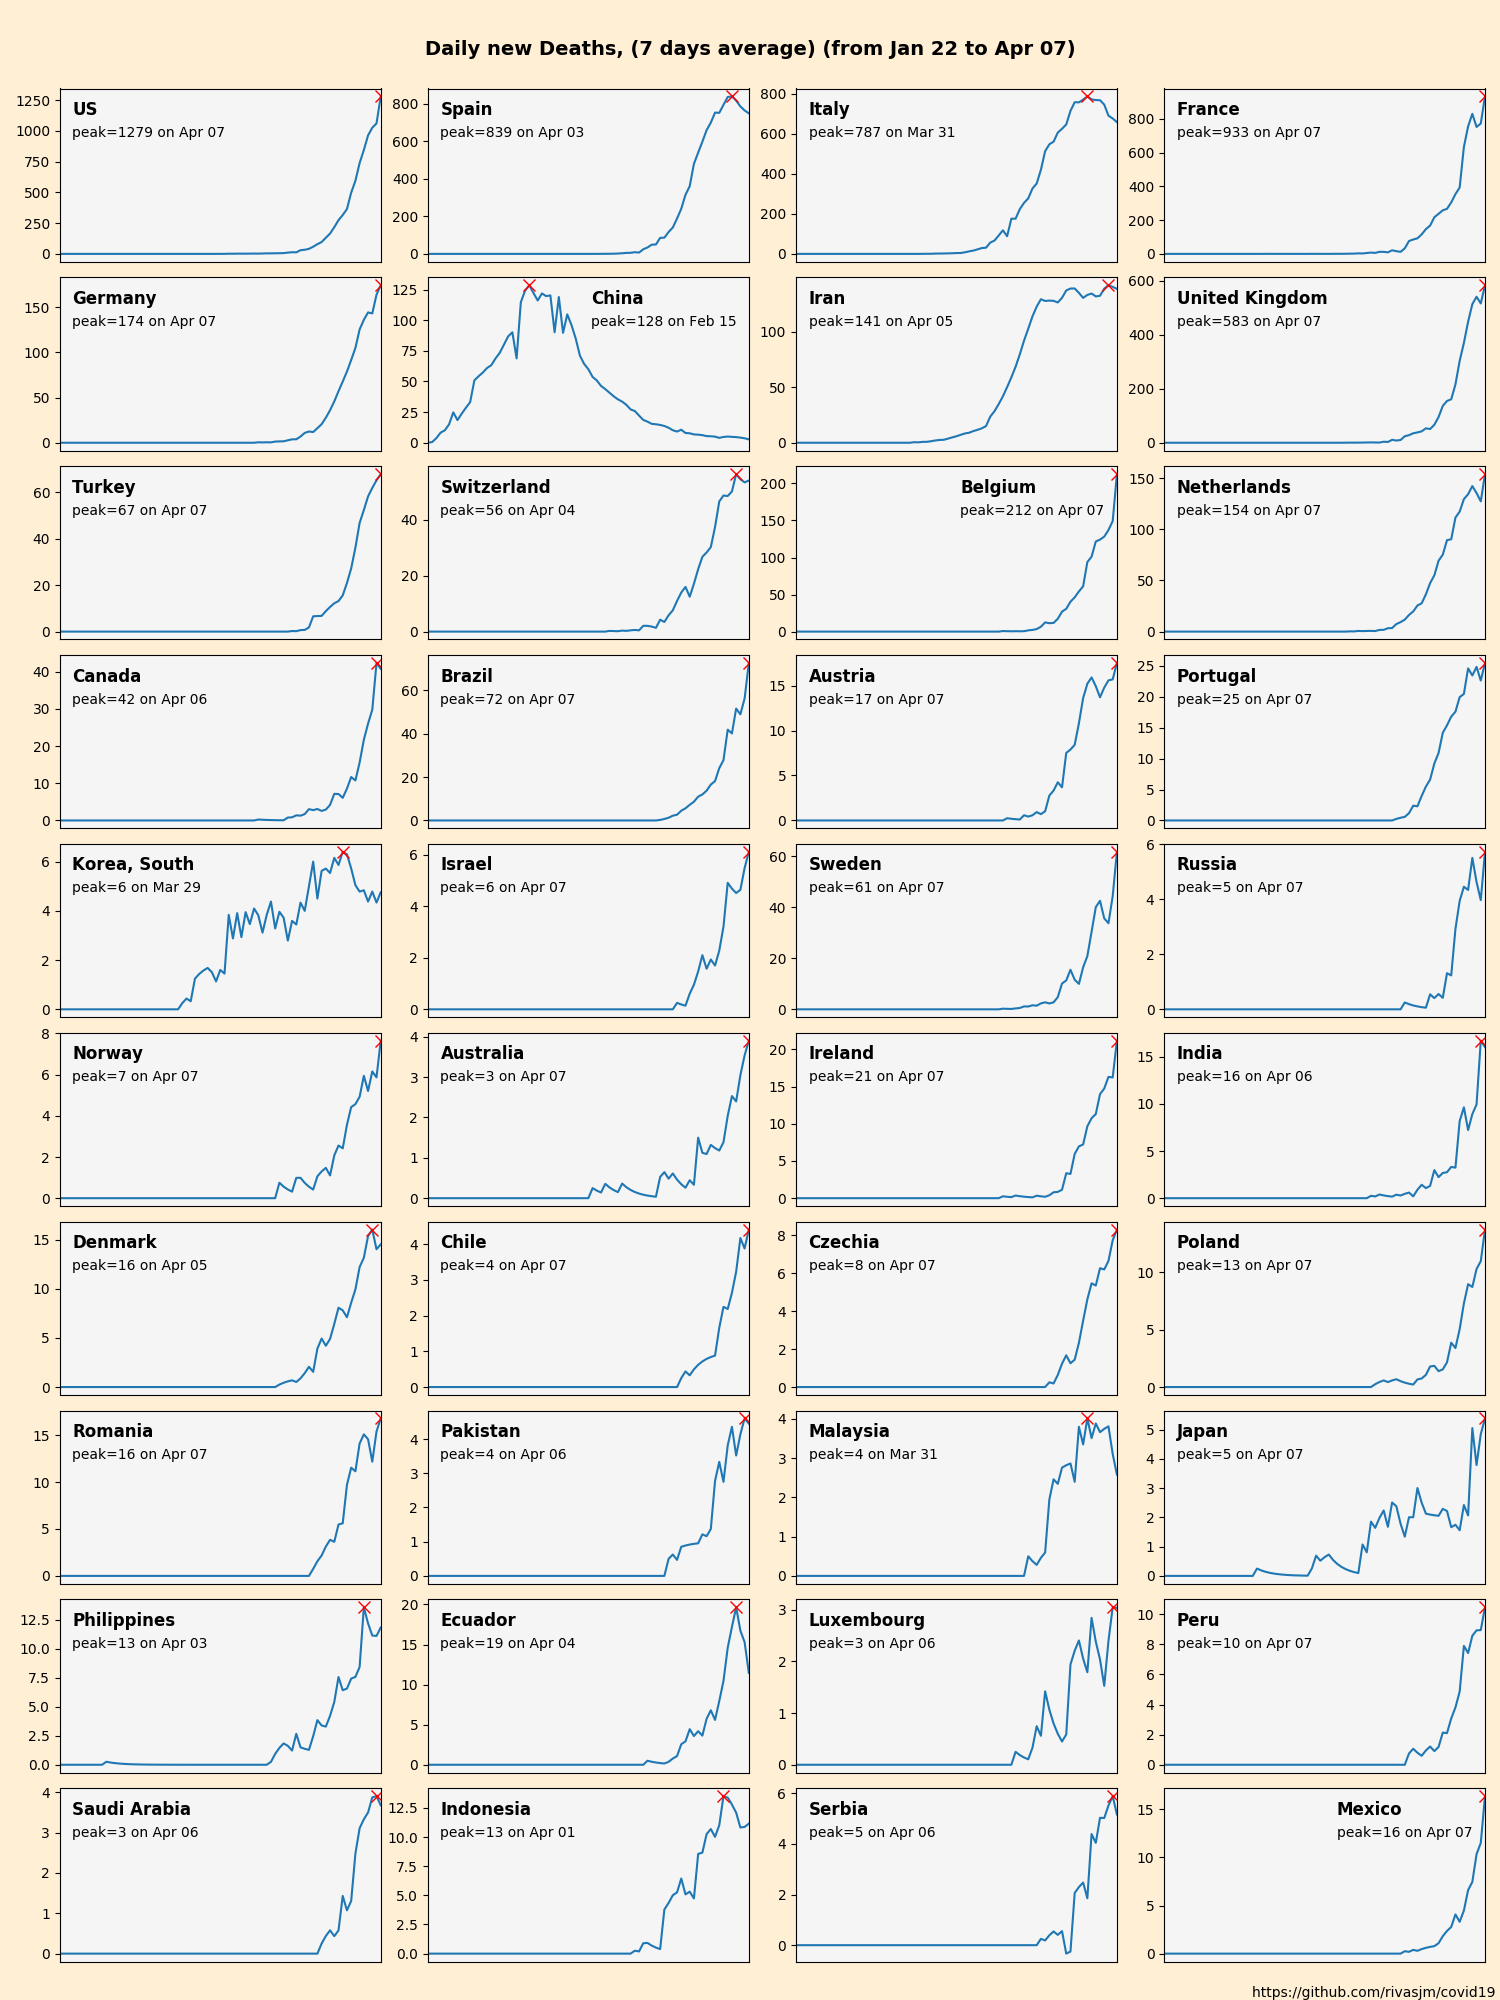
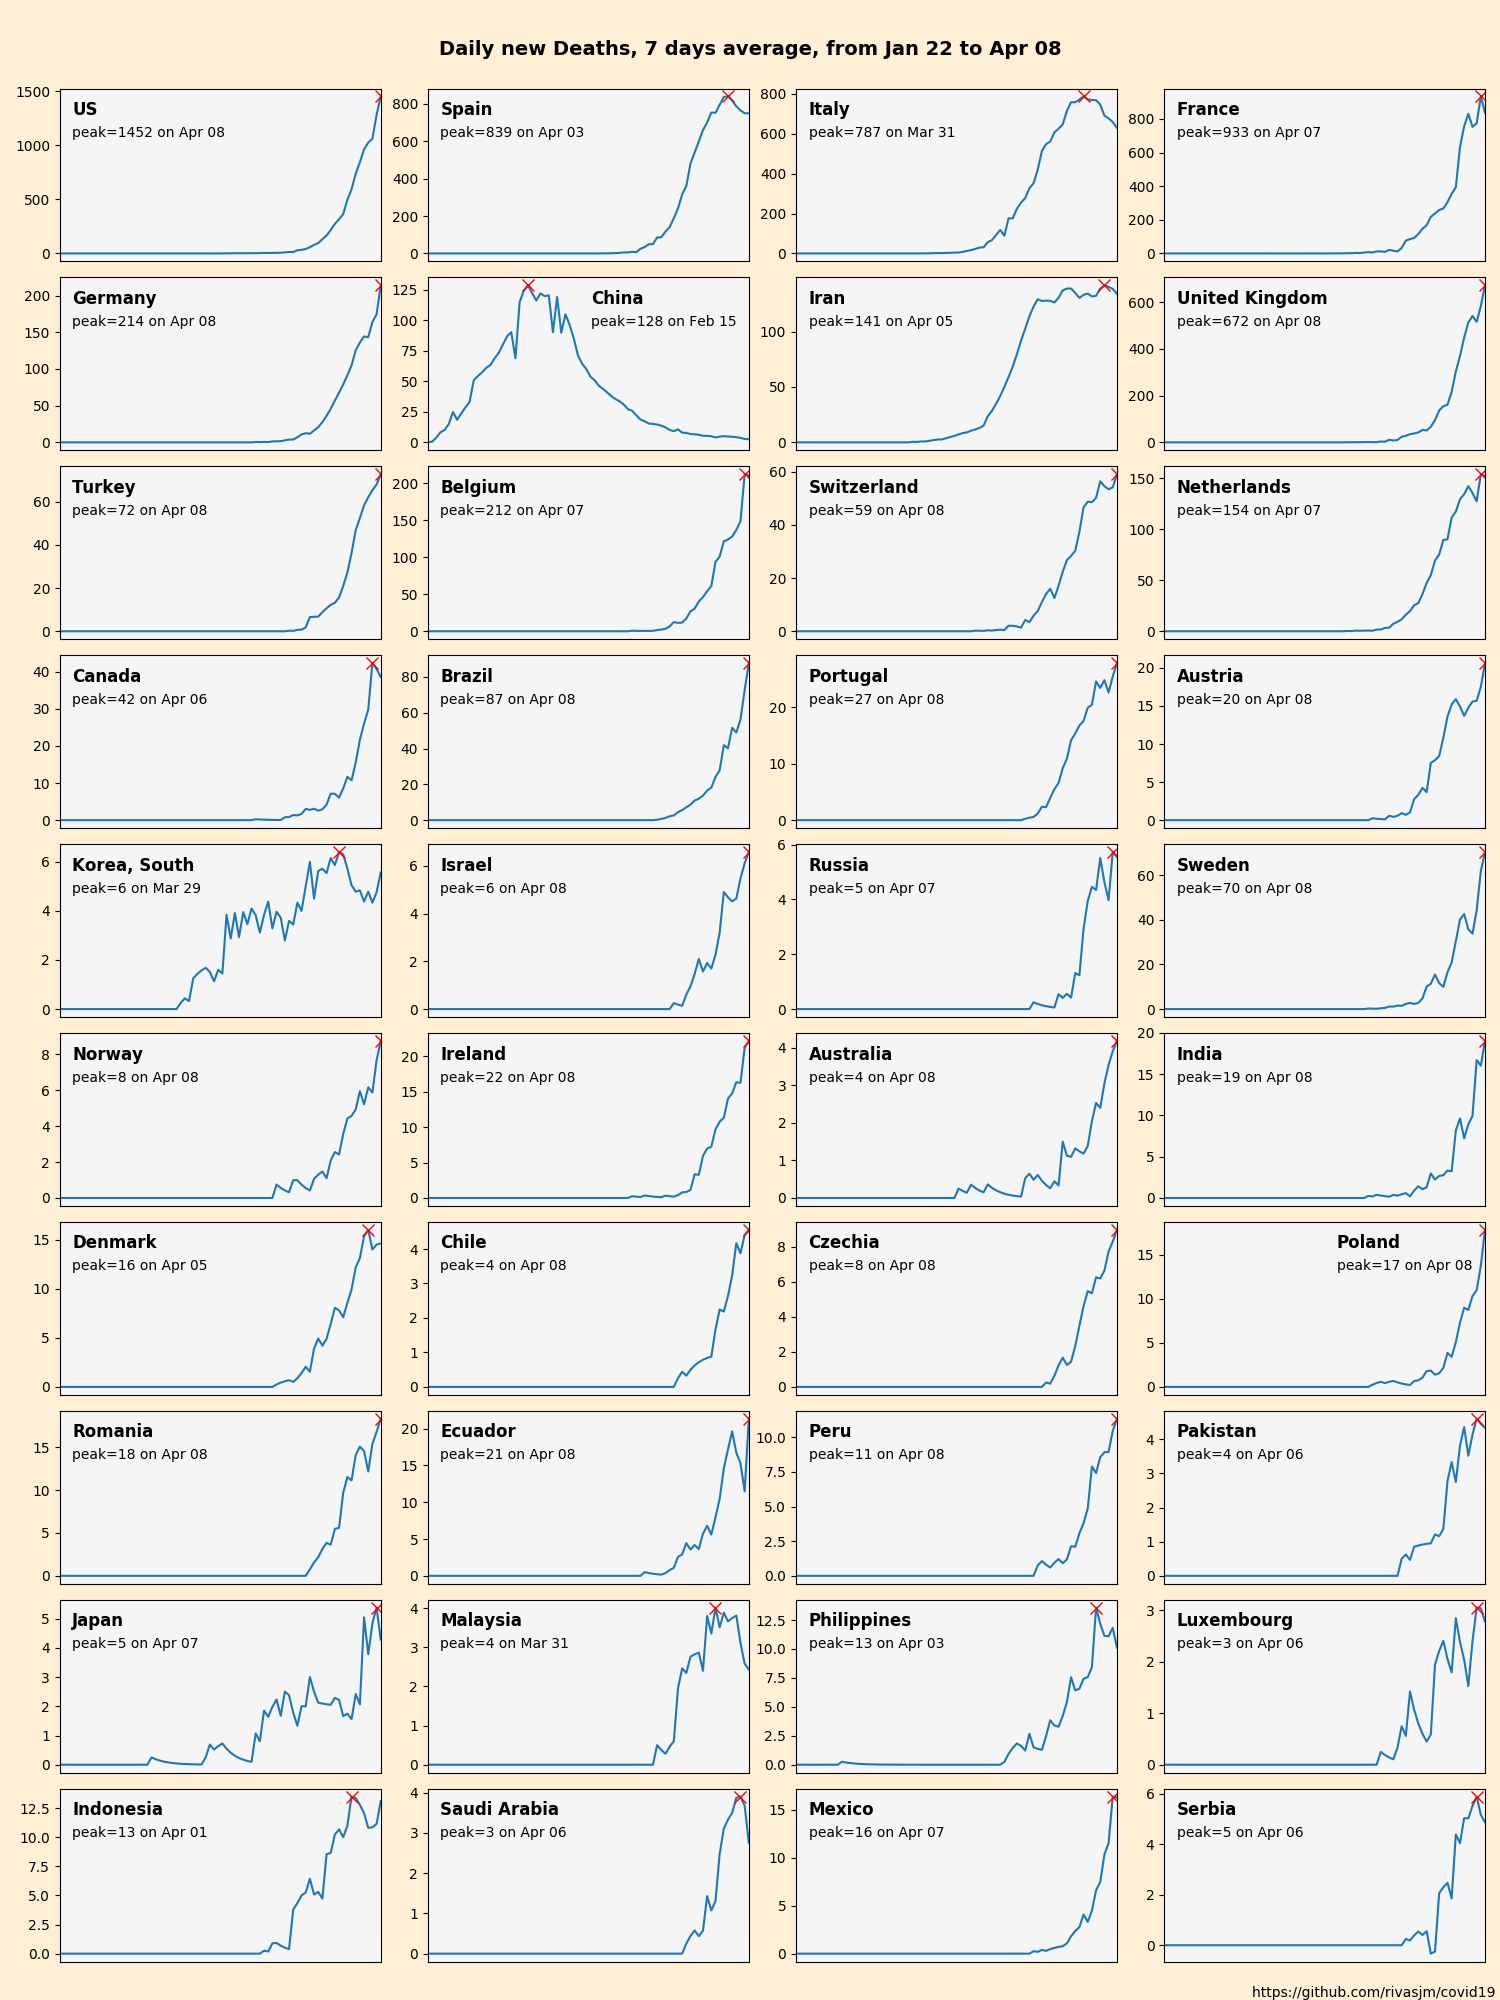
update

diff --git a/charts.py b/charts.py
@@ -67,10 +67,13 @@ def grid(df: pd.DataFrame, locs, type: Column,
         legend._legend_box.align = "left"
 
     dates = [time_repr(dt) for dt in get_dates(df)]
-    fig.suptitle('{} {}, {} (from {} to {})'.format(
-        'Daily new' if increment else '', type.label,
-        '({} days average)'.format(average) if average > 1 else '',
-        dates[0], dates[-1]), fontsize=14, fontweight='bold')
+    fig.suptitle('{}{}{}, from {} to {}'.format(
+        'Daily new ' if increment else '',
+        type.label,
+        ', {} days average'.format(average) if average > 1 else '',
+        dates[0],
+        dates[-1]),
+        fontsize=14, fontweight='bold')
 
     fig.tight_layout(h_pad=0.5, w_pad=0.8, rect=(0, 0.01, 1, 0.965))
     fig.text(1, 0, 'https://github.com/rivasjm/covid19 ', va='bottom', ha='right')
@@ -85,6 +88,7 @@ def build_isciii():
     grid(data, locations, Column.ACTIVE, 15, 10, 'spain_active.png', increment=False, average=1)
     grid(data, locations, Column.CONFIRMED, 15, 10, 'spain_daily_confirmed.png', increment=True, average=7)
     grid(data, locations, Column.DEATHS, 15, 10, 'spain_daily_deaths.png', increment=True, average=7)
+    grid(data, locations, Column.ICU, 15, 10, 'spain_icu.png', increment=False, average=0)
 
 
 def build_world():

diff --git a/README.md b/README.md
@@ -14,3 +14,4 @@ World data from https://github.com/datasets/covid-19
 ![spain_active.png](spain_active.png)
 ![spain_daily_confirmed.png](spain_daily_confirmed.png)
 ![spain_daily_deaths.png](spain_daily_deaths.png)
+![spain_icu.png](spain_icu.png)
